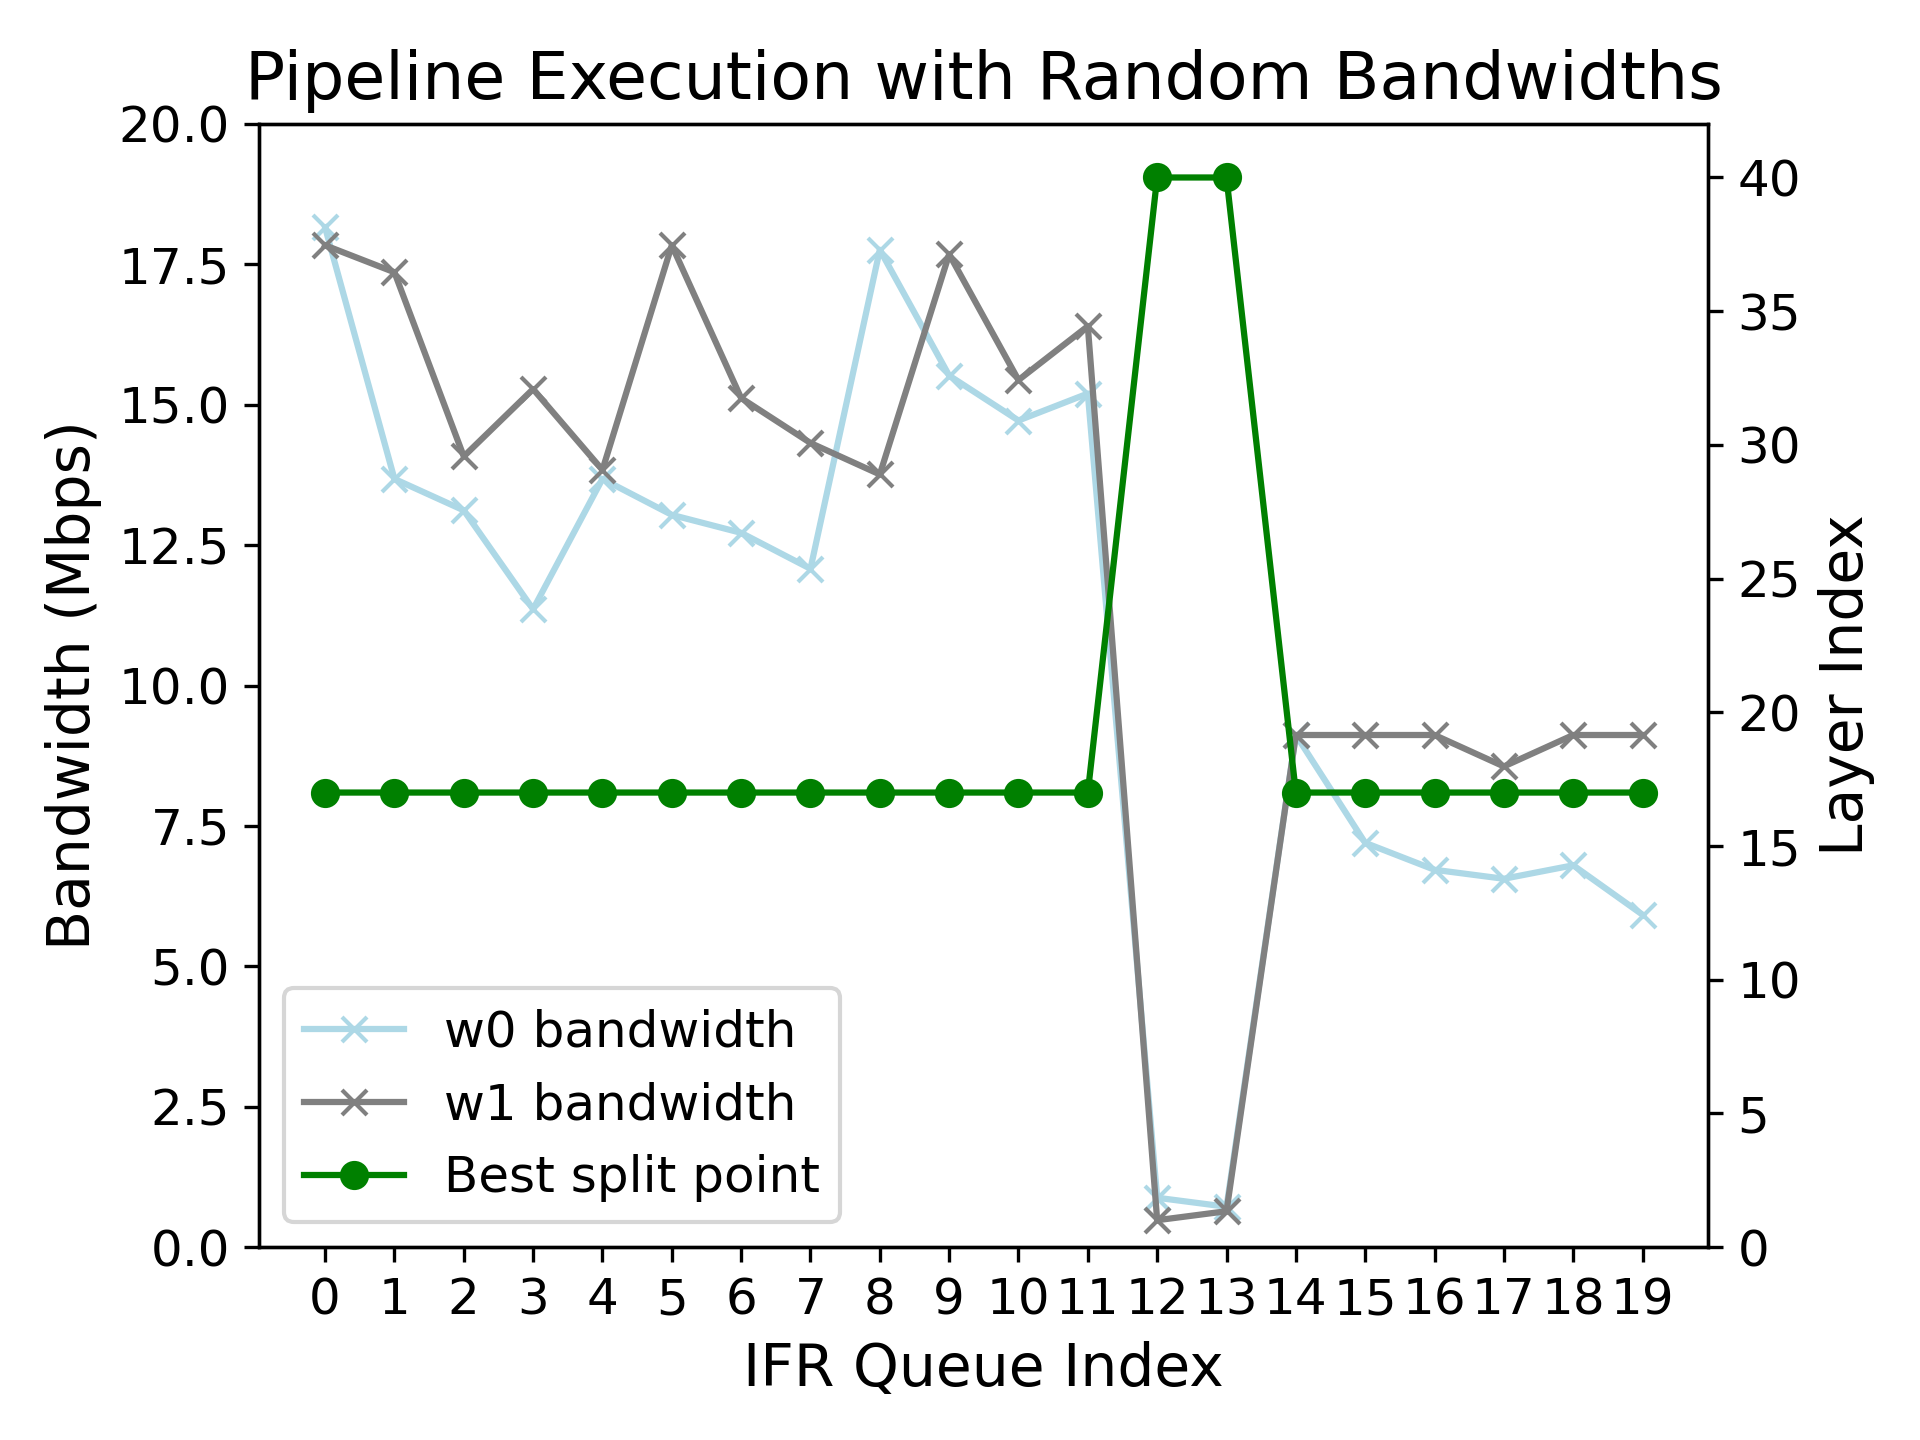
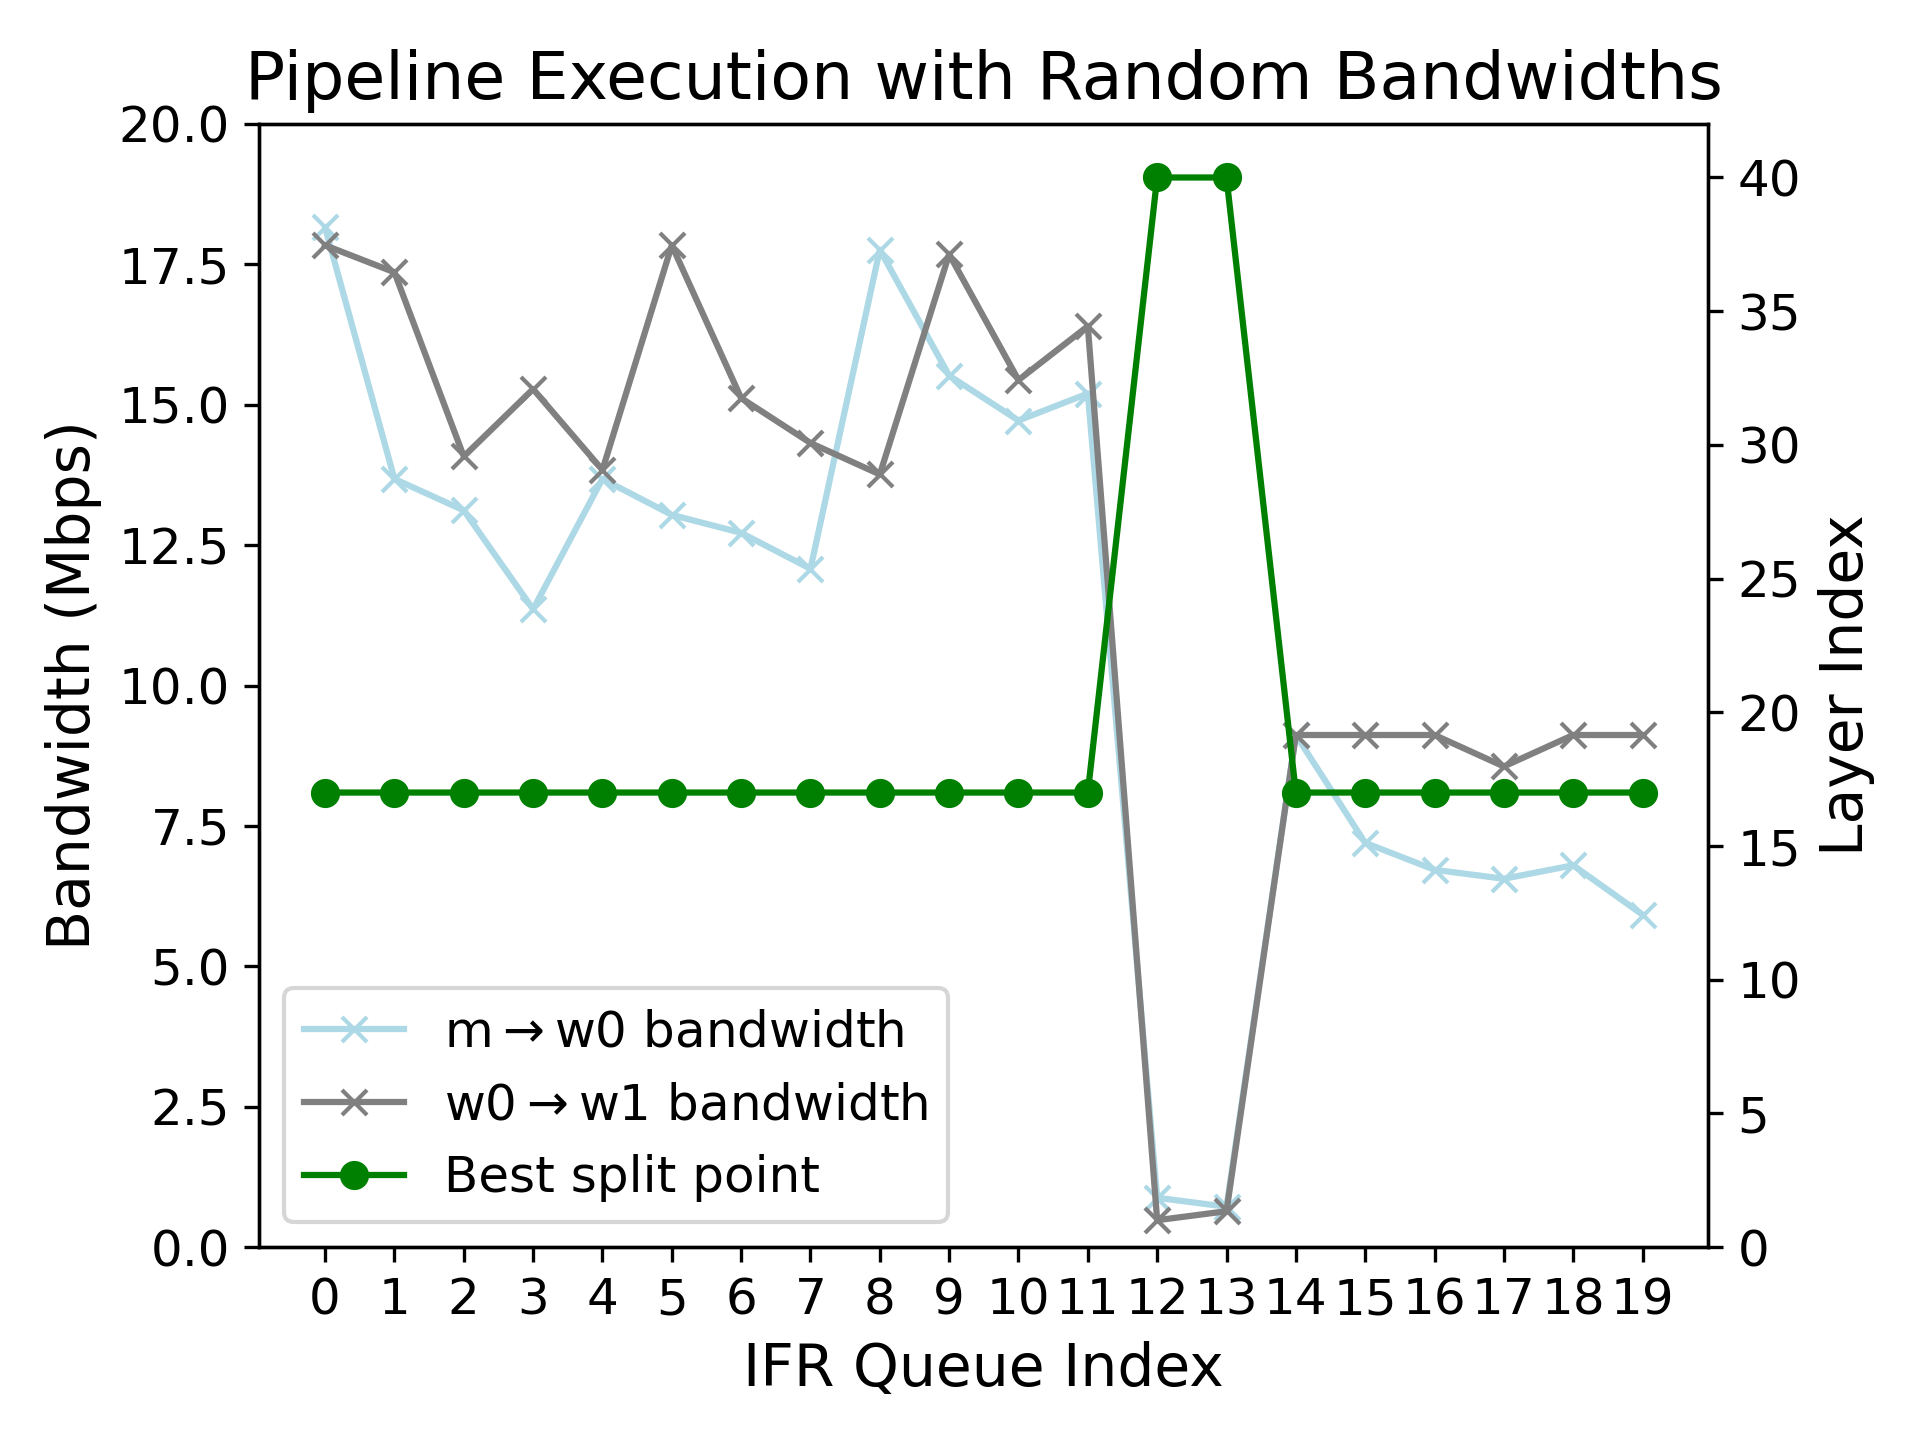
fix: update bandwidth plot labels for clarity

Changed region(s): [[0.2188, 0.6875, 0.5, 0.7812]]

diff --git a/result_for_docker_sim/pipeline_random_bandwidth.py b/result_for_docker_sim/pipeline_random_bandwidth.py
@@ -15,8 +15,8 @@ best_split_points = [17, 17, 17, 17, 17, 17, 17, 17, 17, 17, 17, 17, 40, 40, 17,
 fig, ax1 = plt.subplots()
 
 # 绘制 w0 和 w1 的带宽折线图，并添加点标记
-ax1.plot(ifr_queue, w0_bandwidths, color='lightblue', marker='x', label='w0 bandwidth')  # 浅绿色
-ax1.plot(ifr_queue, w1_bandwidths, color='gray', marker='x', label='w1 bandwidth')  # 浅蓝色
+ax1.plot(ifr_queue, w0_bandwidths, color='lightblue', marker='x', label=r'm$\rightarrow$w0 bandwidth')  # 浅绿色
+ax1.plot(ifr_queue, w1_bandwidths, color='gray', marker='x', label=r'w0$\rightarrow$w1 bandwidth')  # 浅蓝色
 
 # 设置第一个 y 轴
 ax1.set_xlabel('IFR Queue Index', fontsize=14)
